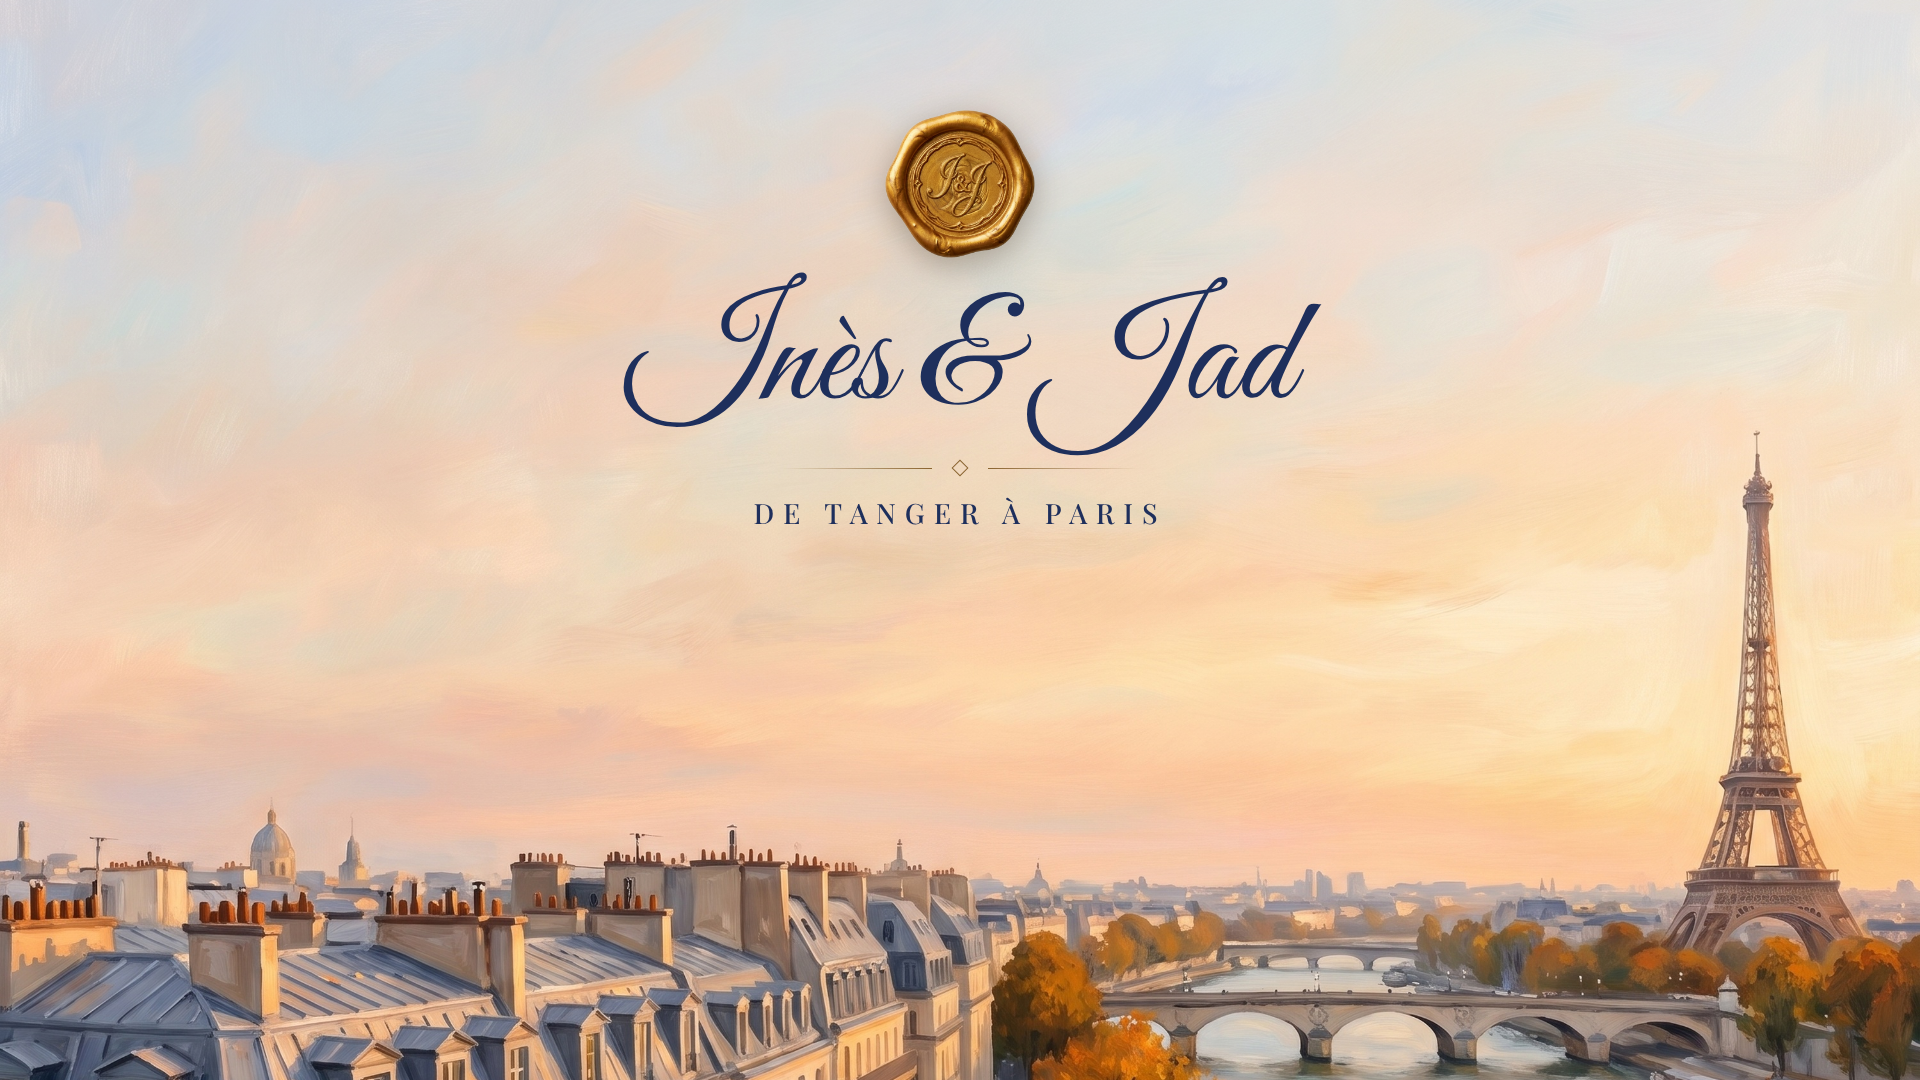
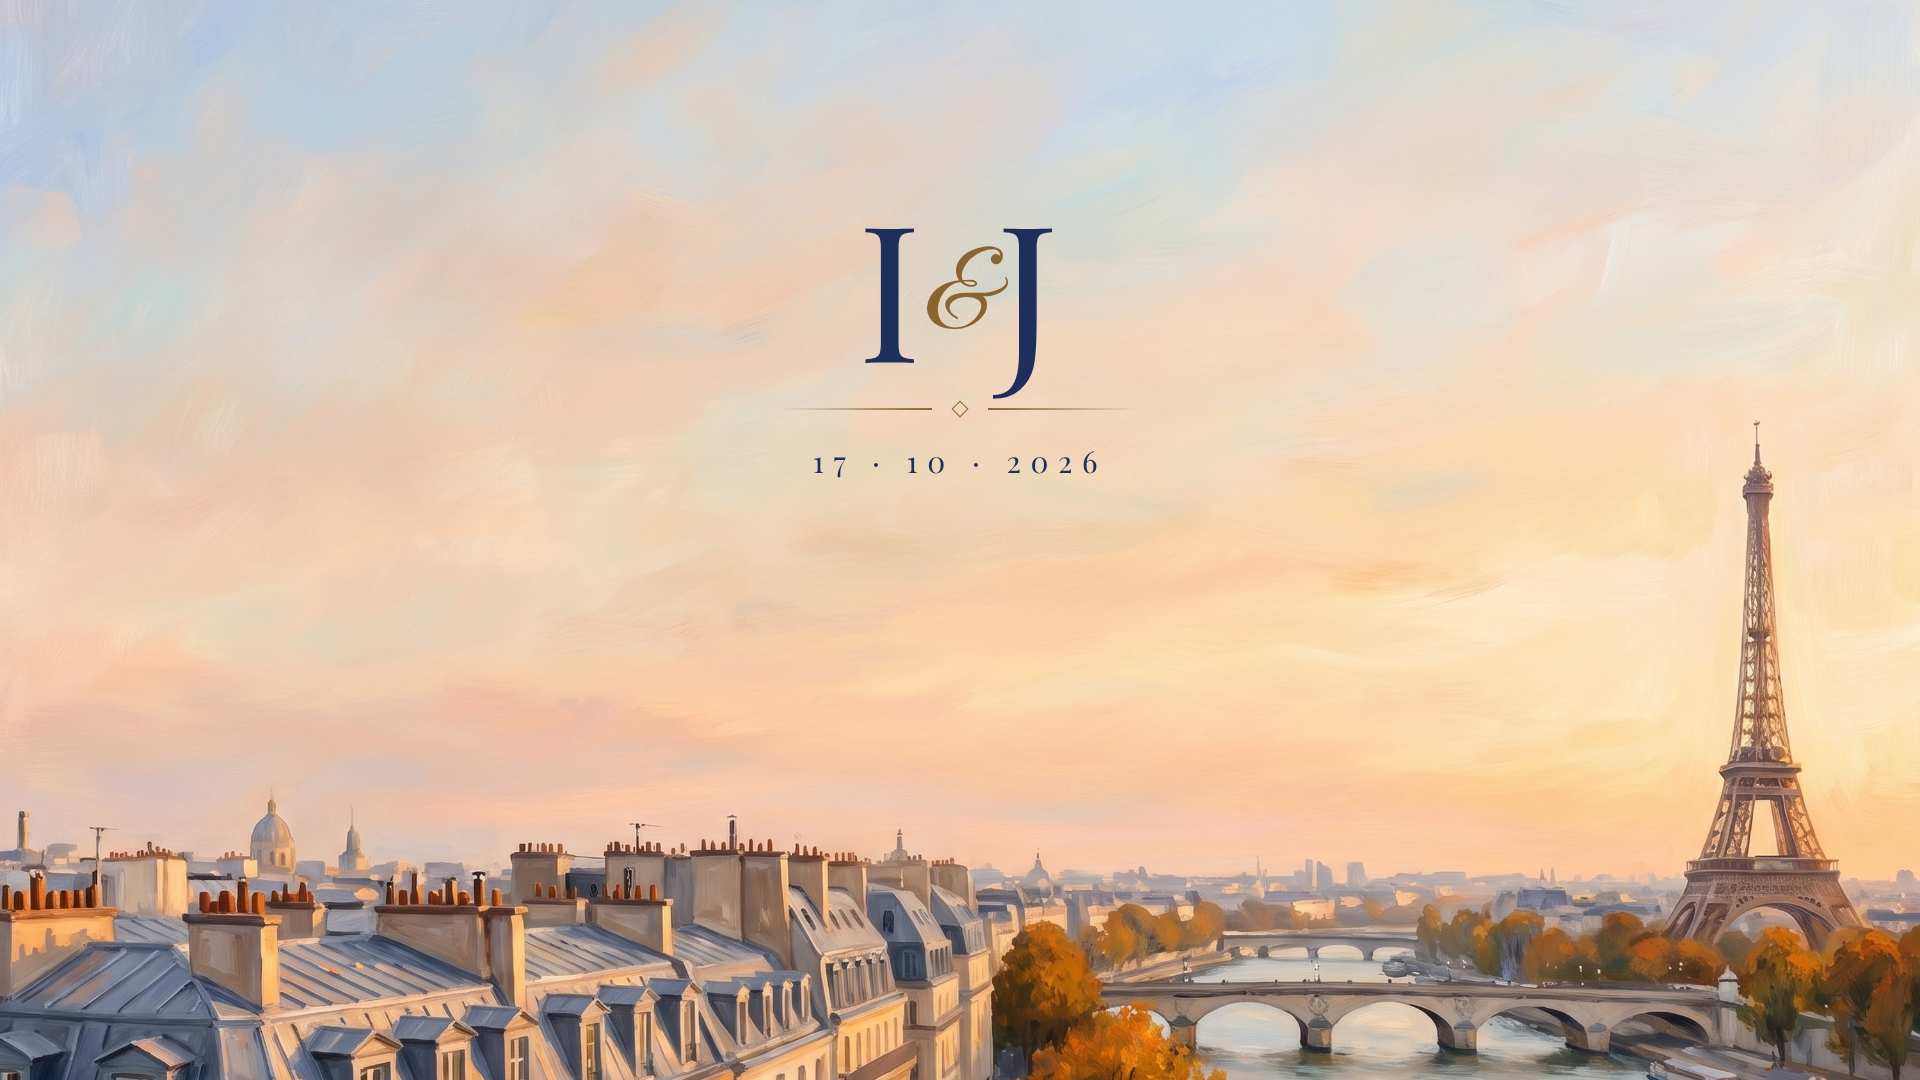
Écran du Palacio : initiales seules (I & J, date), Tanger la nuit, Paris, lanternes
Claude-Session: https://claude.ai/code/session_01Qv8LPbr9A3wfyyg7dTHTn1

diff --git a/ecran-palacio/1-accueil.html b/ecran-palacio/1-accueil.html
@@ -1,13 +1,6 @@
-<!doctype html><meta charset="utf-8"><link rel="stylesheet" href="style.css">
-<div class="s" style="background:#c9c0bb">
- <div style="position:absolute;inset:0;background:radial-gradient(ellipse at 30% 55%,rgba(255,240,225,.35),transparent 55%)"></div>
- <img src="../photobooth/tanger-simple/2-fenetre-sur-la-mer.jpg" style="position:absolute;right:0;top:0;height:1080px;-webkit-mask-image:linear-gradient(90deg,transparent 0,#000 35%)">
- <div style="position:absolute;left:90px;top:0;bottom:0;width:860px;display:flex;flex-direction:column;align-items:center;justify-content:center;text-align:center">
-  <img src="../assets/seal_ij_cut.png" style="width:170px;filter:drop-shadow(0 8px 16px rgba(60,40,20,.35));margin-bottom:36px">
-  <div style="font:500 30px Playfair;letter-spacing:.42em;text-transform:uppercase;color:#5e3f17;margin-bottom:8px">Bienvenue</div>
-  <div style="font:26px Playfair;letter-spacing:.3em;text-transform:uppercase;color:#5e3f17">au mariage de</div>
-  <div style="font:170px/1.15 Script;color:#1e2f5c;margin:18px 0 10px">Inès &amp; Jad</div>
-  <div class="orn" style="margin-bottom:24px"><i style="background:linear-gradient(90deg,transparent,#8a6430)"></i><b style="border-color:#8a6430"></b><i style="background:linear-gradient(90deg,transparent,#8a6430)"></i></div>
-  <div style="font:500 34px Playfair;letter-spacing:.24em;text-transform:uppercase;color:#1e2f5c">Samedi 17 octobre 2026</div>
- </div>
+<!doctype html><meta charset="utf-8"><link rel="stylesheet" href="style.css"><div class="s" style="background:url(../photobooth/tanger-photo/3-terrasse-nuit.jpg) center 12%/cover">
+ <div style="position:absolute;left:0;right:0;top:0;height:55%;background:linear-gradient(rgba(10,25,60,.35),transparent)"></div>
+ <div class="mono" style="color:#f6eedb;text-shadow:0 2px 18px rgba(0,0,0,.55)"><div class="ij">I<em style="color:#e6c785">&amp;</em>J</div>
+  <div class="orn" style="margin-top:24px"><i></i><b></b><i></i></div>
+  <div class="d">17 · 10 · 2026</div></div>
 </div>

diff --git a/ecran-palacio/2-soiree.html b/ecran-palacio/2-soiree.html
@@ -1,10 +1,5 @@
-<!doctype html><meta charset="utf-8"><link rel="stylesheet" href="style.css">
-<div class="s" style="background:url('../photobooth/paysage/3-paris.jpg') center 70%/cover">
- <div style="position:absolute;left:0;right:0;top:0;height:60%;background:linear-gradient(rgba(240,232,225,.35),transparent)"></div>
- <div style="position:absolute;left:0;right:0;top:110px;display:flex;flex-direction:column;align-items:center;text-align:center">
-  <img src="../assets/seal_ij_cut.png" style="width:150px;filter:drop-shadow(0 8px 16px rgba(60,40,20,.35))">
-  <div style="font:150px/1.2 Script;color:#1e2f5c;margin-top:16px">Inès &amp; Jad</div>
-  <div class="orn" style="margin-top:8px"><i style="background:linear-gradient(90deg,transparent,#8a6430)"></i><b style="border-color:#8a6430"></b><i style="background:linear-gradient(90deg,transparent,#8a6430)"></i></div>
-  <div style="font:500 28px Playfair;letter-spacing:.32em;text-transform:uppercase;color:#1e2f5c;margin-top:20px">De Tanger à Paris</div>
- </div>
+<!doctype html><meta charset="utf-8"><link rel="stylesheet" href="style.css"><div class="s" style="background:url(../photobooth/paysage/3-paris.jpg) center 75%/cover">
+ <div class="mono" style="color:#1e2f5c"><div class="ij">I<em style="color:#8a6430">&amp;</em>J</div>
+  <div class="orn" style="margin-top:24px"><i style="background:linear-gradient(90deg,transparent,#8a6430)"></i><b style="border-color:#8a6430"></b><i style="background:linear-gradient(90deg,transparent,#8a6430)"></i></div>
+  <div class="d">17 · 10 · 2026</div></div>
 </div>

diff --git a/ecran-palacio/3-fin.html b/ecran-palacio/3-fin.html
@@ -3,12 +3,9 @@
  <div class="sky"></div>
  <div style="position:absolute;inset:0;background:linear-gradient(#060b20 0%,rgba(6,11,32,.35) 45%,rgba(30,40,80,.1) 100%)"></div>
  <div id="L"></div>
- <div style="position:absolute;inset:0;display:flex;flex-direction:column;align-items:center;justify-content:center;text-align:center">
-  <div class="gold sh" style="font:500 30px Playfair;letter-spacing:.4em;text-transform:uppercase">Merci</div>
-  <div class="iv sh" style="font:48px/1.35 Playfair;font-style:italic;margin:22px 0 8px">d'avoir partagé ce jour avec nous</div>
-  <div class="orn" style="margin:26px 0 10px"><i></i><b></b><i></i></div>
-  <div class="iv sh" style="font:120px/1.2 Script">Inès &amp; Jad</div>
- </div>
+ <div class="mono" style="color:#f6eedb;text-shadow:0 2px 18px rgba(0,0,0,.55)"><div class="ij">I<em style="color:#e6c785">&amp;</em>J</div>
+  <div class="orn" style="margin-top:24px"><i></i><b></b><i></i></div>
+  <div class="d">17 · 10 · 2026</div></div>
 </div>
 <script>
 const P=[[90,700,1.0,2],[250,860,.7,5],[330,420,.45,1],[520,780,.6,3],[640,250,.35,4],[1290,300,.4,1],[1380,820,.75,5],[1560,560,.55,2],[1700,860,.9,3],[1790,330,.4,4],[200,180,.3,3],[1100,940,.5,1],[800,960,.45,2],[1500,120,.3,5],[60,420,.35,4],[1840,600,.5,1]];

diff --git a/ecran-palacio/maquette.html b/ecran-palacio/maquette.html
@@ -1,0 +1,12 @@
+<!doctype html><meta charset="utf-8"><style>body{margin:0;background:#b98ab8}</style>
+<svg width="1920" height="1080" viewBox="0 0 1920 1080" xmlns="http://www.w3.org/2000/svg">
+<defs><clipPath id="a">
+ <path d="M10 600 V380 A215 215 0 0 1 440 380 V600 Z"/>
+ <path d="M670 1080 V330 A240 240 0 0 1 1150 330 V1080 Z"/>
+ <path d="M1390 580 V380 A215 215 0 0 1 1820 380 V580 Z"/>
+</clipPath></defs>
+<rect width="1920" height="1080" fill="#c79bc6"/>
+<image id="im" href="" width="1920" height="1080" clip-path="url(#a)"/>
+<path d="M480 1080 C470 860 520 760 560 740 Q910 640 1260 740 C1300 760 1350 860 1340 1080 Z" fill="#9b3f8f" opacity=".95"/>
+</svg>
+<script>document.getElementById('im').setAttribute('href',location.hash.slice(1))</script>

diff --git a/ecran-palacio/shot.js b/ecran-palacio/shot.js
@@ -1,4 +1,5 @@
 const {chromium}=require('playwright');
 (async()=>{const b=await chromium.launch();const p=await b.newPage({viewport:{width:1920,height:1080}});
-for(const n of ['1-accueil','2-soiree','3-fin']){await p.goto('file://'+__dirname+'/'+n+'.html');await p.waitForTimeout(600);await p.screenshot({path:__dirname+'/'+n+'.png'});}
+for(const n of ['1-accueil','2-soiree','3-fin']){await p.goto('file://'+__dirname+'/'+n+'.html');await p.waitForTimeout(600);await p.screenshot({path:__dirname+'/'+n+'.png'});
+ await p.goto('file://'+__dirname+'/maquette.html#'+n+'.png');await p.waitForTimeout(400);await p.screenshot({path:__dirname+'/maquette-'+n+'.jpg',type:'jpeg',quality:85});}
 await b.close();})();

diff --git a/ecran-palacio/style.css b/ecran-palacio/style.css
@@ -13,3 +13,7 @@ html,body{width:1920px;height:1080px;overflow:hidden;background:#0b1430}
 .orn i:last-child{transform:scaleX(-1)}
 .orn b{width:12px;height:12px;border:1.5px solid #d9b56a;transform:rotate(45deg)}
 .lan{position:absolute;top:0;filter:drop-shadow(0 0 28px rgba(255,190,90,.55))}
+.mono{position:absolute;left:0;right:0;top:0;height:62%;display:flex;flex-direction:column;align-items:center;justify-content:center;text-align:center}
+.mono .ij{font:400 190px/1 Playfair;letter-spacing:.02em;display:flex;align-items:center;gap:6px}
+.mono .ij em{font:110px/1 Script;font-style:normal;margin:30px -6px 0}
+.mono .d{font:400 30px Playfair;letter-spacing:.32em;margin-top:26px}
